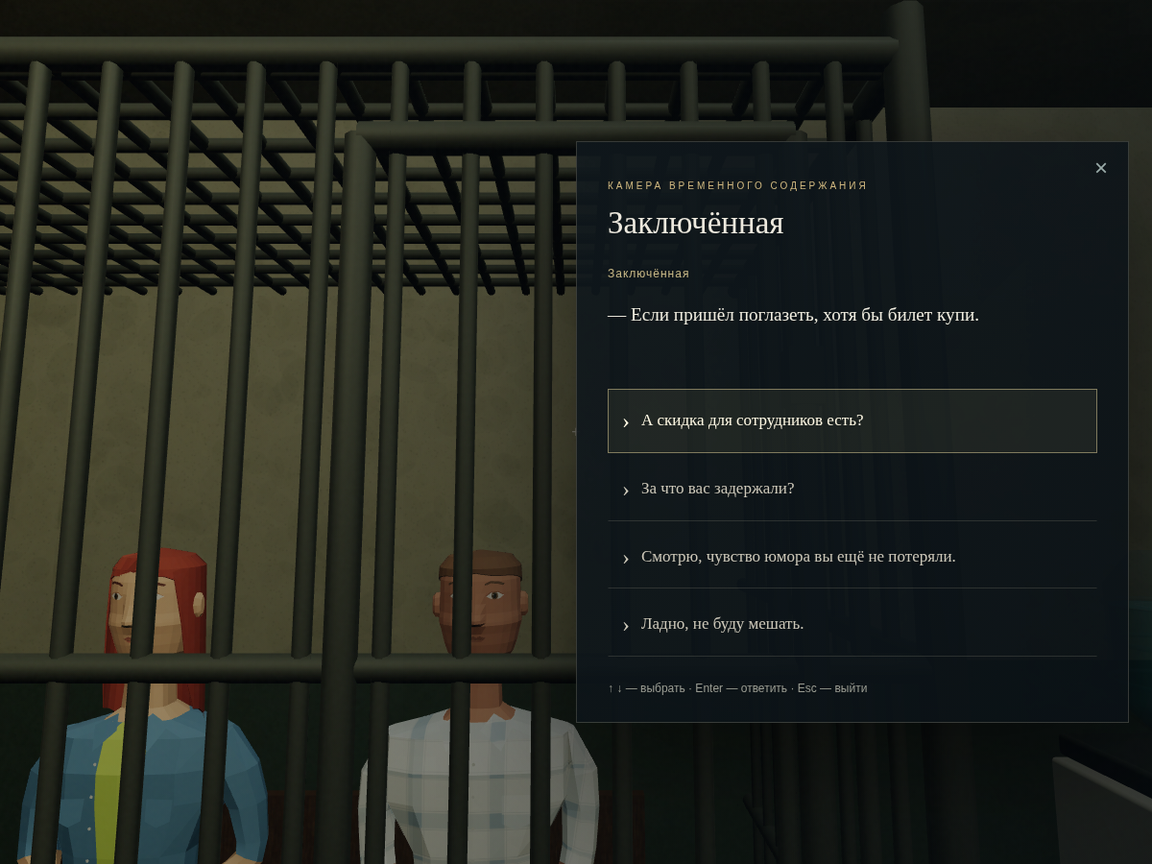
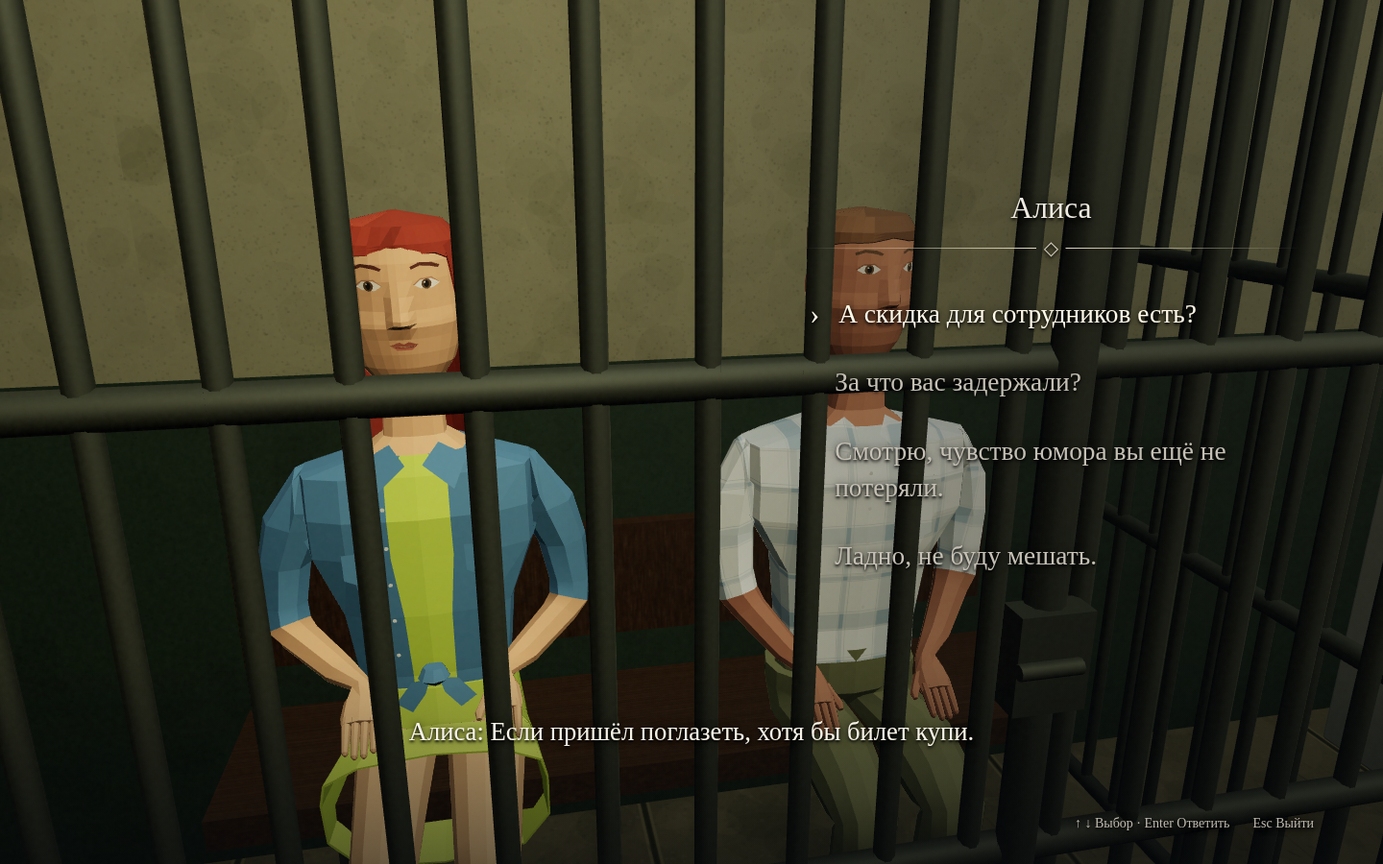
Add immersive Alice dialogue with typewriter subtitles and animated choices

diff --git a/src/main.js b/src/main.js
@@ -6,7 +6,7 @@ import {createEditor} from './editor.js';
 import {createCorridor} from './corridor.js';
 import {createCoffeeInteraction} from './coffee-interaction.js';
 import {createMenus} from './menu.js';
-import {createDetaineeConversation,detaineeDialog} from './detainee-dialog.js';
+import {createDetaineeConversation,detaineeDialog,mountDetaineeDialog} from './detainee-dialog.js';
 import {officerDialog} from './officer-dialog.js';
 import {rooms} from './rooms.js';
 import {canWalk, floorHeight, doorwayOccupied, floorNumber} from './navigation.js';
@@ -17,7 +17,7 @@ const evidence={
   log:{title:'02 / Журнал доступа в клуб',body:'Личный пропуск Марины Соколовой зарегистрирован у служебного входа в 21:58 и на выходе в 22:11. Время смерти Громова — между 22:00 и 22:10. Соколова утверждает, что ушла в 21:30. Её версия не совпадает с журналом.'},
   record:{title:'03 / Запись и заключение эксперта',body:'Эксперт восстановил запись на телефоне Громова. В 22:06 он говорит: «Марина, поставь кубок. Редакция уже получила доказательства договорного боя». Слышен её ответ: «Ты обещал не трогать мою сестру!», затем удар. Эксперт подтвердил голос Соколовой и обнаружил её отпечатки на кубке с кровью Громова. Запись и экспертиза подтверждают журнал доступа.'}
 };
-let audio,audioGain,editor,coffee;
+let audio,audioGain,editor,coffee,activeDetainee=null;
 function sound(){if(audio){audio.resume().catch(()=>{});return;}try{audio=new AudioContext();const o=audio.createOscillator(),g=audio.createGain();o.type='sine';o.frequency.value=58;audioGain=g;g.gain.value=.028*menus.preferences.volume/100;o.connect(g).connect(audio.destination);o.start();}catch{}}
 function coffeeSound(kind){
   sound();if(!audio||menus.preferences.volume===0)return;
@@ -32,12 +32,12 @@ function coffeeSound(kind){
   }
 }
 function release(){if(typeof sceneRendered!=='undefined')sceneRendered=false;if(typeof highlightedCell!=='undefined')highlightCell(null);if(typeof highlightedNotice!=='undefined')highlightNotice(null);if(document.pointerLockElement)document.exitPointerLock();keys.clear();}
-function panel(html){release();overlay.innerHTML=`<section class="panel"><button class="close" aria-label="Закрыть">×</button>${html}</section>`;$('.close').onclick=close;}
+function panel(html){endDetainee();release();overlay.innerHTML=`<section class="panel"><button class="close" aria-label="Закрыть">×</button>${html}</section>`;$('.close').onclick=close;}
 async function showNotice(index){
   release();await noticePhotosReady;const notice=noticeDocuments[index],photo=document.createElement('canvas');photo.width=700;photo.height=700;drawNoticePhoto(photo.getContext('2d'),index,0,0,700,700);
   panel(`<article class="notice-reader" aria-label="Объявление"><div class="notice-primary"><h2>${notice.title}</h2><h3>${notice.name}</h3><img src="${photo.toDataURL()}" alt="Фотография к объявлению"><div class="notice-copy">${notice.lines.map(line=>`<p>${line}</p>`).join('')}</div><strong>${notice.footer}</strong></div><aside><h2>Дополнительная информация</h2>${noticeDetails[index].map(text=>`<p>${text}</p>`).join('')}<div class="notice-stamp">УЧАСТОК № 7 · ЗАПИСИ ДЕЖУРНОЙ ЧАСТИ</div></aside></article>`);
 }
-function close(){overlay.innerHTML='';captureMouse();}
+function close(){endDetainee();overlay.innerHTML='';captureMouse();}
 let mouseCapturePending=false;
 async function captureMouse(){
   if(editor?.active||!menus.playing||state.mode!=='corridor'||overlay.innerHTML||state.ended||document.pointerLockElement===canvas||mouseCapturePending)return;
@@ -88,7 +88,7 @@ const renderer=new THREE.WebGLRenderer({canvas,antialias:true});renderer.setPixe
 const ray=new THREE.Raycaster(),keys=new Set();let target=null,highlightedNotice=null,highlightedCell=null,busy=false,yaw=0,pitch=0;
 function highlightNotice(next){if(next===highlightedNotice)return;if(highlightedNotice)highlightedNotice.material.emissiveIntensity=0;highlightedNotice=next?.userData.type==='notice'?next:null;if(highlightedNotice)highlightedNotice.material.emissiveIntensity=.36;}
 function highlightCell(next){const gate=next?.userData.type==='cellDoor'?next:null;if(gate===highlightedCell)return;highlightedCell?.userData.setHighlighted(false);highlightedCell=gate;highlightedCell?.userData.setHighlighted(true);}
-document.addEventListener('keydown',e=>{if(overlay.querySelector('.detainee-dialog')&&['ArrowUp','ArrowDown','Enter','Space'].includes(e.code)){e.preventDefault();const buttons=[...overlay.querySelectorAll('.detainee-choice')];const index=buttons.indexOf(document.activeElement);if(e.code==='ArrowUp'||e.code==='ArrowDown')buttons[(index+(e.code==='ArrowUp'?-1:1)+buttons.length)%buttons.length]?.focus();else if(!e.repeat)document.activeElement?.classList.contains('detainee-choice')&&document.activeElement.click();return;}if(e.code==='F2'){e.preventDefault();if(menus.playing&&state.mode==='corridor'){if(editor.active)editor.exit();else if(!overlay.innerHTML)editor.enter();}return;}if(editor?.active){if(e.code==='Escape')editor.exit();return;}if(e.code==='KeyE'&&!e.repeat&&menus.playing&&state.mode==='corridor'&&!overlay.innerHTML&&!state.ended){e.preventDefault();if(target?.userData.type==='cellDoor')talkToDetainee();else coffee.drink();return;}if(['KeyW','KeyA','KeyS','KeyD','ArrowUp','ArrowDown','Space'].includes(e.code))e.preventDefault();if(e.code==='Escape'){if($('#start-story'))return;if(menus.back())return;if(overlay.innerHTML)close();else pause();}if(!overlay.innerHTML)keys.add(e.code);});document.addEventListener('keyup',e=>keys.delete(e.code));window.addEventListener('blur',release);
+document.addEventListener('keydown',e=>{if(e.code==='F2'){e.preventDefault();if(menus.playing&&state.mode==='corridor'){if(editor.active)editor.exit();else if(!overlay.innerHTML)editor.enter();}return;}if(editor?.active){if(e.code==='Escape')editor.exit();return;}if(e.code==='KeyE'&&!e.repeat&&menus.playing&&state.mode==='corridor'&&!overlay.innerHTML&&!state.ended){e.preventDefault();if(target?.userData.type==='cellDoor')talkToDetainee();else coffee.drink();return;}if(['KeyW','KeyA','KeyS','KeyD','ArrowUp','ArrowDown','Space'].includes(e.code))e.preventDefault();if(e.code==='Escape'){if($('#start-story'))return;if(menus.back())return;if(overlay.innerHTML)close();else pause();}if(!overlay.innerHTML)keys.add(e.code);});document.addEventListener('keyup',e=>keys.delete(e.code));window.addEventListener('blur',release);
 document.addEventListener('mousemove',e=>{if(!editor?.active&&document.pointerLockElement===canvas&&state.mode==='corridor'&&!overlay.innerHTML){yaw-=e.movementX*.002*menus.preferences.sensitivity;pitch=Math.max(-1.2,Math.min(1.2,pitch-e.movementY*.002*menus.preferences.sensitivity));camera.rotation.set(pitch,yaw,0);}});
 canvas.addEventListener('click',async()=>{if(editor?.active||state.mode!=='corridor'||overlay.innerHTML||busy)return;sound();if(target){if(target.userData.type==='cellDoor'){talkToDetainee();return;}if(['coffeeMachine','coffeeCup'].includes(target.userData.type)){coffee.interact(target);return;}if(target.userData.type==='notice'){showNotice(target.userData.noticeIndex);return;}if(target.userData.type==='dutyOfficer'){briefing();return;}if(target.userData.type==='savePhone'){savePhone();return;}if(target.userData.type==='passageDoor'){togglePassageDoor();return;}busy=true;release();const selected=target;const hinge=selected.userData.hinge;const start=hinge.rotation.y;let t=0;const animate=()=>{t+=.07;hinge.rotation.y=start-Math.min(t,1)*1.15;if(t<1)requestAnimationFrame(animate);else{enter(selected.userData.type);hinge.rotation.y=start;busy=false;}};animate();}else{await captureMouse();}});
 function setPassageOpen(open){passageDoor.userData.hinges.forEach(hinge=>hinge.rotation.y=open?hinge.userData.openAngle:0);}
@@ -105,18 +105,35 @@ function briefing(topic='welcome'){
   document.querySelectorAll('[data-brief]').forEach(button=>button.onclick=()=>briefing(button.dataset.brief));$('#leave-officer').onclick=()=>{const fresh=!state.briefed;state.briefed=true;close();if(fresh)toast('Доступ к лестнице открыт. Подойдите к двери в проходе и нажмите ЛКМ.');};
   $('#lebedev-title').focus({preventScroll:true});
 }
+function endDetainee(){
+  if(!activeDetainee)return;
+  activeDetainee.ui.dispose();
+  camera.position.copy(activeDetainee.position);camera.quaternion.copy(activeDetainee.rotation);camera.fov=activeDetainee.fov;camera.updateProjectionMatrix();
+  activeDetainee=null;document.body.classList.remove('in-detainee-dialog');target=null;sceneRendered=false;
+}
 function talkToDetainee(){
+  if(activeDetainee)return;
+  const original={position:camera.position.clone(),rotation:camera.quaternion.clone(),fov:camera.fov};
   const conversation=createDetaineeConversation(state.detaineeTopics);
-  function render(){
-    state.detaineeTopics=conversation.snapshot;
-    const view=conversation.view;panel(detaineeDialog(view));
-    const element=$('.panel');element.setAttribute('role','dialog');element.setAttribute('aria-modal','true');element.setAttribute('aria-labelledby','detainee-title');
-    overlay.querySelector('[data-advance]')?.addEventListener('click',()=>{conversation.advance();render();});
-    overlay.querySelectorAll('[data-response]').forEach(button=>button.onclick=()=>{conversation.choose(Number(button.dataset.response));render();});
-    overlay.querySelector('[data-end]')?.addEventListener('click',()=>{close();if(view.after)toast(`Заключённая (вслед): «${view.after}»`);});
-    overlay.querySelector('.detainee-choice')?.focus({preventScroll:true});
-  }
-  render();
+  panel(detaineeDialog());
+  const element=$('.panel');element.setAttribute('role','dialog');element.setAttribute('aria-modal','true');element.setAttribute('aria-labelledby','detainee-title');
+  document.body.classList.add('in-detainee-dialog');
+  // Eye-level dialogue framing keeps Alice to the left of the floating topics.
+  const destination=new THREE.Vector3(-.76,-1.715,5.30);
+  const framing=camera.clone();framing.position.copy(destination);framing.lookAt(-2.48,-2.24,5.46-.52*THREE.MathUtils.clamp(camera.aspect/1.6,.2,1));
+  const ui=mountDetaineeDialog(element,conversation,{
+    onUpdate:topics=>{state.detaineeTopics=topics;},
+    onClose:after=>{close();if(after)toast(`Алиса (вслед): «${after}»`);},
+  });
+  activeDetainee={...original,ui,destination,direction:framing.quaternion.clone(),started:performance.now(),aspect:camera.aspect,reduced:matchMedia('(prefers-reduced-motion: reduce)').matches};
+}
+function updateDetaineeCamera(now){
+  if(!activeDetainee)return;
+  const pose=activeDetainee;
+  if(pose.aspect!==camera.aspect){const framing=camera.clone();framing.position.copy(pose.destination);framing.lookAt(-2.48,-2.24,5.46-.52*THREE.MathUtils.clamp(camera.aspect/1.6,.2,1));pose.direction.copy(framing.quaternion);pose.aspect=camera.aspect;}
+  const t=pose.reduced?1:Math.min(1,(now-pose.started)/450),ease=t*t*(3-2*t);
+  camera.position.lerpVectors(pose.position,pose.destination,ease);camera.quaternion.slerpQuaternions(pose.rotation,pose.direction,ease);
+  camera.fov=THREE.MathUtils.lerp(pose.fov,50,ease);camera.updateProjectionMatrix();
 }
 function pause(){menus.pause();}
 const SAVE_KEY='night-shift-last-round-save-v1';
@@ -177,7 +194,8 @@ function frame(now){
   const coffeeHint=coffeeActive?(target?.userData.type==='cellDoor'?'Нажмите «Е»':coffee.hint(target)):'';
   $('#hint').classList.toggle('coffee-hint',!!coffeeHint);
   if(coffeeHint)$('#hint').textContent=coffeeHint;
-  if(!menus.exited&&state.mode==='corridor'&&(!overlay.innerHTML||!sceneRendered)){
+  updateDetaineeCamera(now);
+  if(!menus.exited&&state.mode==='corridor'&&(!overlay.innerHTML||!sceneRendered||activeDetainee)){
     editor.update();updateStreet(now/1000);
     scene.getObjectByName('stationAmbient').intensity=THREE.MathUtils.lerp(.62,1.65,THREE.MathUtils.clamp((camera.position.y+.5)/2.15,0,1));
     renderer.render(scene,camera);sceneRendered=true;

diff --git a/src/detainee-dialog.js b/src/detainee-dialog.js
@@ -1,5 +1,5 @@
 const player = text => ({speaker:'Игрок',text});
-const prisoner = text => ({speaker:'Заключённая',text});
+const prisoner = text => ({speaker:'Алиса',text});
 const exchange = (...lines) => lines.map((text,index)=>index%2?player(text):prisoner(text));
 const option = (text,next) => ({text,next});
 export const mainTopics = [
@@ -69,9 +69,102 @@ export function createDetaineeConversation(unlocked=[]){
 }
 
 const escape = text=>text.replaceAll('&','&amp;').replaceAll('<','&lt;').replaceAll('>','&gt;').replaceAll('"','&quot;');
-export function detaineeDialog(view){
-  return `<article class="detainee-dialog"><div class="eyebrow">КАМЕРА ВРЕМЕННОГО СОДЕРЖАНИЯ</div><h2 id="detainee-title">Заключённая</h2>
-    <div class="detainee-line" aria-live="polite"><span>${view.line.speaker}</span><p>— ${escape(view.line.text)}</p></div>
-    <nav aria-label="Варианты ответа">${!view.finished?'<button class="detainee-choice" data-advance>Продолжить <span>↵</span></button>':view.end?'<button class="detainee-choice" data-end>Завершить разговор <span>↵</span></button>':view.options.map((item,index)=>`<button class="detainee-choice" data-response="${index}"><span class="dialog-arrow">›</span>${escape(item.text)}</button>`).join('')}</nav>
-    <div class="detainee-help">↑ ↓ — выбрать · Enter — ответить · Esc — выйти</div></article>`;
+export function detaineeDialog(){
+  return `<article class="detainee-dialog" aria-label="Разговор с Алисой">
+    <div class="detainee-topics"><h2 id="detainee-title">Алиса</h2><div class="detainee-ornament" aria-hidden="true"><span>◇</span></div>
+      <nav aria-label="Варианты ответа" hidden></nav>
+    </div>
+    <div class="detainee-subtitle"><span class="detainee-speaker"></span><span class="detainee-text" aria-hidden="true"></span><span class="dialog-announcement" role="status"></span></div>
+    <div class="detainee-help"><span class="detainee-typing-help">Enter — показать реплику</span><span class="detainee-navigation-help" hidden>↑ ↓ Выбор · Enter Ответить</span><button data-dialog-exit>Esc Выйти</button></div>
+  </article>`;
+}
+
+// Each visit owns its animation and listeners. Closing a conversation cancels
+// pending letters, automatic player lines and selection transitions together.
+export function mountDetaineeDialog(element,conversation,{onUpdate,onClose}){
+  const text=element.querySelector('.detainee-text');
+  const speaker=element.querySelector('.detainee-speaker');
+  const announcement=element.querySelector('.dialog-announcement');
+  const nav=element.querySelector('nav');
+  const typingHelp=element.querySelector('.detainee-typing-help');
+  const navigationHelp=element.querySelector('.detainee-navigation-help');
+  const reduced=matchMedia('(prefers-reduced-motion: reduce)').matches;
+  const subtitle=element.querySelector('.detainee-subtitle');
+  const resize=new ResizeObserver(()=>element.style.setProperty('--subtitle-height',`${subtitle.getBoundingClientRect().height}px`));
+  resize.observe(subtitle);
+  const seen=new Set();
+  let disposed=false,typing=false,selecting=false,raf=0,timer=0,letters=[],count=0,nextLetter=0;
+  const clear=()=>{cancelAnimationFrame(raf);clearTimeout(timer);raf=0;timer=0;};
+  const focus=button=>{
+    nav.querySelectorAll('button').forEach(item=>item.classList.toggle('is-focused',item===button));
+    button?.focus({preventScroll:true});button?.scrollIntoView({block:'nearest'});
+  };
+  function complete(){
+    if(disposed||!typing)return;
+    typing=false;cancelAnimationFrame(raf);text.textContent=letters.join('');
+    element.classList.remove('is-typing');announcement.textContent=`${conversation.view.line.speaker}: ${text.textContent}`;
+    const view=conversation.view;onUpdate(conversation.snapshot);
+    if(view.line.speaker==='Игрок'&&!view.finished){
+      typingHelp.textContent='Enter — продолжить';
+      timer=setTimeout(advance,reduced?250:650);return;
+    }
+    typingHelp.hidden=true;navigationHelp.hidden=false;nav.hidden=false;
+    nav.innerHTML=!view.finished?'<button class="detainee-choice" data-advance><span class="dialog-arrow">›</span>Продолжить</button>':
+      view.end?'<button class="detainee-choice" data-end><span class="dialog-arrow">›</span>Завершить разговор</button>':
+      view.options.map((item,index)=>`<button class="detainee-choice ${seen.has(item.next)?'is-visited':''}" data-response="${index}" style="--choice-delay:${index*65}ms"><span class="dialog-arrow" aria-hidden="true">›</span><span>${escape(item.text)}</span></button>`).join('');
+    nav.querySelectorAll('button').forEach(button=>{
+      button.onpointerenter=()=>{if(!selecting)focus(button);};
+      button.onclick=()=>activate(button);
+    });
+    focus(nav.querySelector('button'));
+  }
+  function tick(now){
+    if(disposed||!typing)return;
+    if(!nextLetter)nextLetter=now;
+    while(count<letters.length&&now>=nextLetter){
+      const letter=letters[count++];nextLetter+=/[.!?…]/.test(letter)?110:24;
+    }
+    text.textContent=letters.slice(0,count).join('');
+    if(count===letters.length)complete();else raf=requestAnimationFrame(tick);
+  }
+  function render(){
+    clear();selecting=false;typing=true;count=0;nextLetter=0;
+    letters=Array.from(conversation.view.line.text);text.textContent='';announcement.textContent='';
+    speaker.textContent=`${conversation.view.line.speaker}: `;
+    element.classList.add('is-typing');element.classList.remove('is-selecting');
+    nav.hidden=true;nav.innerHTML='';typingHelp.hidden=false;typingHelp.textContent='Enter — показать реплику';navigationHelp.hidden=true;
+    if(reduced)complete();else raf=requestAnimationFrame(tick);
+  }
+  function advance(){
+    if(disposed||selecting)return;
+    clear();if(conversation.advance())render();
+  }
+  function activate(button){
+    if(disposed||typing||selecting||!button)return;
+    if(button.hasAttribute('data-advance')){advance();return;}
+    if(button.hasAttribute('data-end')){onClose(conversation.view.after);return;}
+    const index=Number(button.dataset.response),choice=conversation.view.options[index];
+    if(!choice)return;clear();selecting=true;element.classList.add('is-selecting');button.classList.add('is-chosen');
+    nav.querySelectorAll('button').forEach(item=>item.disabled=true);
+    timer=setTimeout(()=>{if(disposed)return;seen.add(choice.next);conversation.choose(index);render();},reduced?0:240);
+  }
+  function keydown(event){
+    if(!['ArrowUp','ArrowDown','Enter','Space','Escape','KeyE'].includes(event.code))return;
+    event.preventDefault();event.stopImmediatePropagation();
+    if(event.code==='Escape'){onClose();return;}
+    if(event.repeat||selecting)return;
+    if(['Enter','Space','KeyE'].includes(event.code)){
+      if(typing){complete();return;}
+      if(conversation.view.line.speaker==='Игрок'&&!conversation.view.finished){advance();return;}
+      activate(nav.querySelector('.is-focused')??nav.querySelector('button'));return;
+    }
+    if(typing||nav.hidden)return;
+    const buttons=[...nav.querySelectorAll('button')],index=buttons.findIndex(button=>button.classList.contains('is-focused'));
+    focus(buttons[(index+(event.code==='ArrowUp'?-1:1)+buttons.length)%buttons.length]);
+  }
+  document.addEventListener('keydown',keydown,true);
+  element.querySelector('[data-dialog-exit]').onclick=()=>onClose();
+  element.querySelector('.detainee-subtitle').onclick=()=>{if(typing)complete();else if(!conversation.view.finished)advance();};
+  render();
+  return {dispose(){disposed=true;clear();resize.disconnect();document.removeEventListener('keydown',keydown,true);}};
 }

diff --git a/src/style.css b/src/style.css
@@ -57,9 +57,35 @@ body #hint.coffee-hint{display:block!important;bottom:12%;max-width:calc(100% - 
 .coffee-options{display:grid;grid-template-columns:repeat(3,minmax(0,1fr));gap:10px}.coffee-option{display:flex;flex-direction:column;align-items:flex-start;gap:7px;min-height:96px;padding:13px 15px;text-align:left;border:1px solid #b7ac8b40;border-radius:3px;background:#c8b99008;color:#e9dfca;transition:background .15s,border-color .15s}.coffee-option strong{font:17px Georgia,serif}.coffee-option small{font:11px/1.4 Arial,sans-serif;color:#aeb8b0}.coffee-cup-icon{font-size:19px;filter:grayscale(1)}.coffee-option:hover{background:#c8b99015}.coffee-option[aria-pressed="true"]{background:#bca57328;border-color:#dec285;box-shadow:inset 0 0 0 1px #dec285}.coffee-checkout{display:flex;align-items:center;gap:20px;margin-top:20px;border-top:1px solid #c4b17b30;padding-top:15px}.coffee-checkout p{margin:0;flex:1;font-size:13px}.coffee-checkout .primary{white-space:nowrap;border-radius:3px}.coffee-checkout .primary:disabled{opacity:.4;cursor:default}
 @media(max-width:650px){.panel:has(.coffee-menu){padding:26px 20px}.coffee-options{grid-template-columns:repeat(2,minmax(0,1fr))}.coffee-option{min-height:85px;padding:10px}.coffee-menu-meta{flex-direction:column;gap:6px}.coffee-checkout{flex-direction:column;align-items:stretch;gap:12px}.coffee-checkout .primary{width:100%}}
 
-/* Transparent dialogue over the actual NPC scene, with keyboard topic selection. */
-#overlay:has(.detainee-dialog){background:linear-gradient(90deg,#070c1040,#070c10b8);backdrop-filter:none;justify-content:flex-end}
-.panel:has(.detainee-dialog){width:min(660px,48vw);margin:24px;max-height:calc(100dvh - 48px);padding:40px 32px 26px;background:linear-gradient(135deg,#10171cec,#0b1116eb);border:1px solid #c4bfa33a}
-.detainee-dialog h2{color:#ede9de}.detainee-line{min-height:100px;margin:24px 0 30px}.detainee-line>span{font:12px/1.5 Arial,sans-serif;color:#c8b886;letter-spacing:1px}.detainee-line p{font:clamp(18px,1.6vw,23px)/1.6 Georgia,serif;color:#efecdf}
-.detainee-dialog nav{display:grid;gap:4px}.detainee-choice{display:flex;gap:12px;align-items:center;width:100%;padding:15px 14px;background:transparent;border:1px solid transparent;border-bottom-color:#dbd5bd26;text-align:left;color:#cdc8b9;font:17px/1.45 Georgia,serif}.detainee-choice:hover,.detainee-choice:focus-visible{outline:0;border-color:#d6c69288;background:#c5b58016;color:#fff9e4}.detainee-choice>span:last-child{margin-left:auto}.detainee-choice>.dialog-arrow:last-child{margin-left:0;font-size:24px}.detainee-help{margin-top:24px;color:#999b91;font:12px/1.5 Arial,sans-serif}
-@media(max-width:700px){.panel:has(.detainee-dialog){width:calc(100vw - 24px);margin:12px;padding:36px 20px 20px;max-height:calc(100dvh - 24px)}.detainee-choice{font-size:16px;padding:12px}.detainee-line{margin:20px 0;min-height:70px}}
+/* Dialogue stays in the scene: topics on the right, subtitles along the bottom. */
+#overlay:has(.detainee-dialog){display:block;background:linear-gradient(90deg,transparent 38%,#06090c60 76%),linear-gradient(0deg,#06090c85,transparent 24%);backdrop-filter:none}
+.panel:has(.detainee-dialog){position:fixed;inset:0;width:100%;height:100dvh;max-height:none;margin:0;padding:0;overflow:hidden;background:none;border:0;box-shadow:none}
+.panel:has(.detainee-dialog)>.close{display:none}
+body.in-detainee-dialog #crosshair,body.in-detainee-dialog #hint{display:none!important}
+.detainee-dialog{height:100%;color:#f1eee5;text-shadow:0 2px 3px #000,0 0 8px #000a;font-family:Georgia,serif}
+.detainee-topics{position:absolute;right:6%;top:22%;width:36%;max-height:calc(69% - var(--subtitle-height,80px) - 28px);display:flex;flex-direction:column}
+.detainee-topics h2{margin:0;text-align:center;font:400 clamp(22px,2.2vw,34px)/1.2 Georgia,serif;color:#eeeae0}
+.detainee-ornament{display:flex;align-items:center;gap:8px;margin:12px 0 25px;color:#d1cbbd;text-align:center}
+.detainee-ornament:before,.detainee-ornament:after{content:"";height:1px;flex:1;background:linear-gradient(90deg,transparent,#dfd9c0)}
+.detainee-ornament:after{transform:rotate(180deg)}
+.detainee-ornament span{font-size:20px;line-height:1}
+.detainee-topics nav{overflow:auto;scrollbar-width:thin;scrollbar-color:#bbb29a70 transparent;padding:3px 4px 10px;}
+.detainee-topics nav[hidden]{display:none}
+.detainee-choice{position:relative;display:flex;align-items:center;gap:14px;width:100%;padding:12px 0;margin:0 0 9px;text-align:left;border:0;background:transparent;color:#c5c0b5;font:400 clamp(18px,1.9vw,28px)/1.4 Georgia,serif;text-shadow:inherit;cursor:pointer;transition:color .16s,transform .16s,opacity .2s;animation:dialog-choice-in .3s both;animation-delay:var(--choice-delay,0ms)}
+.detainee-choice>.dialog-arrow{flex:0 0 16px;font-size:30px;line-height:1;opacity:0;transform:translateX(-7px);transition:opacity .16s,transform .16s}
+.detainee-choice.is-visited{color:#979388}
+.detainee-choice.is-focused,.detainee-choice:hover,.detainee-choice:focus-visible{outline:none;color:#fff9e9;transform:translateX(4px)}
+.detainee-choice.is-focused>.dialog-arrow{opacity:1;transform:translateX(0)}
+.detainee-choice.is-chosen{color:#fffaf0;animation:dialog-choice-confirm .24s both}
+.is-selecting .detainee-choice:not(.is-chosen){opacity:.15;animation:none}
+.detainee-subtitle{position:absolute;left:8%;right:8%;bottom:9%;min-height:2.8em;text-align:center;color:#f8f4e8;font:400 clamp(18px,1.85vw,28px)/1.4 Georgia,serif;cursor:pointer}
+.detainee-speaker{white-space:nowrap}.detainee-text{white-space:pre-wrap}
+.dialog-announcement{position:absolute;width:1px;height:1px;padding:0;margin:-1px;overflow:hidden;clip-path:inset(50%);white-space:nowrap}
+.detainee-help{position:absolute;right:5%;bottom:3%;display:flex;gap:24px;align-items:center;font:14px/1.5 Georgia,serif;color:#beb9af}
+.detainee-help [hidden]{display:none}
+.detainee-help button{border:0;background:none;padding:5px 0;color:inherit;font:inherit;text-shadow:inherit}.detainee-help button:hover,.detainee-help button:focus-visible{color:#fff9e9}
+@keyframes dialog-choice-in{from{opacity:0;translate:12px 0}to{opacity:1;translate:0 0}}
+@keyframes dialog-choice-confirm{0%{transform:translateX(4px);opacity:1}50%{transform:translateX(12px);opacity:1;text-shadow:0 0 9px #fff7d088}100%{transform:translateX(17px);opacity:0}}
+@media(max-width:700px){.detainee-topics{right:4%;top:15%;width:47%;max-height:calc(75% - var(--subtitle-height,80px) - 20px)}.detainee-topics h2{font-size:24px}.detainee-ornament{margin:8px 0 14px}.detainee-choice{font-size:16px;gap:6px;padding:8px 0;margin-bottom:4px}.detainee-choice>.dialog-arrow{flex-basis:12px;font-size:24px}.detainee-subtitle{left:4%;right:4%;bottom:10%;font-size:17px}.detainee-help{right:4%;left:4%;justify-content:flex-end;gap:12px;font-size:11px}}
+@media(max-height:520px){.detainee-topics{top:8%;max-height:calc(83% - var(--subtitle-height,60px) - 20px)}.detainee-ornament{margin:6px 0}.detainee-choice{font-size:16px;margin:0;padding:7px 0}.detainee-subtitle{font-size:16px;bottom:9%}.detainee-help{font-size:11px;bottom:2%}}
+@media(prefers-reduced-motion:reduce){.detainee-choice,.detainee-choice.is-chosen{animation:none;transition:none}.detainee-choice>.dialog-arrow{transition:none}}

diff --git a/tests/detainee-dialog.test.js b/tests/detainee-dialog.test.js
@@ -35,3 +35,10 @@ test('selected player reply is followed by all authored lines in order; goodbye 
   assert.equal(c.view.line.text,'Всего доброго.');finish(c);
   assert.equal(c.view.end,true);assert.equal(c.view.after,'Хотя какую нахуй дверь…');
 });
+
+
+test('NPC subtitles consistently use Alice, without changing player speakers',()=>{
+  for(const node of Object.values(detaineeNodes))
+    for(const line of node.lines)assert.ok(['Игрок','Алиса'].includes(line.speaker));
+  const c=createDetaineeConversation();c.advance();assert.equal(c.view.line.speaker,'Алиса');
+});
